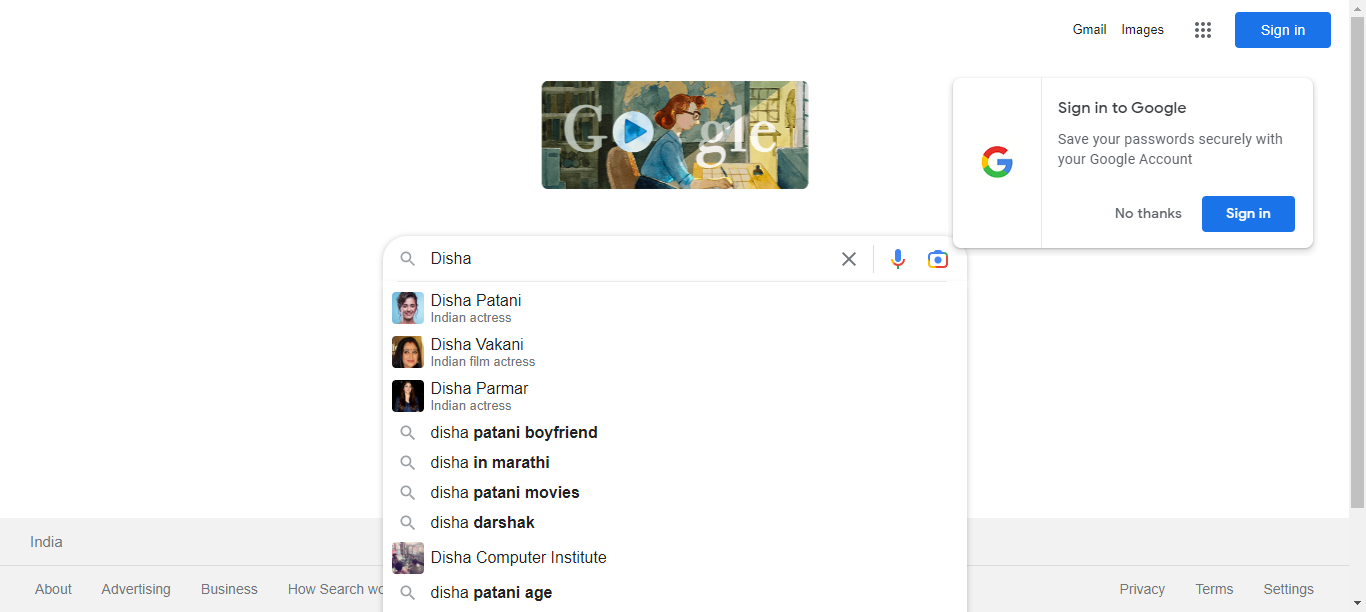
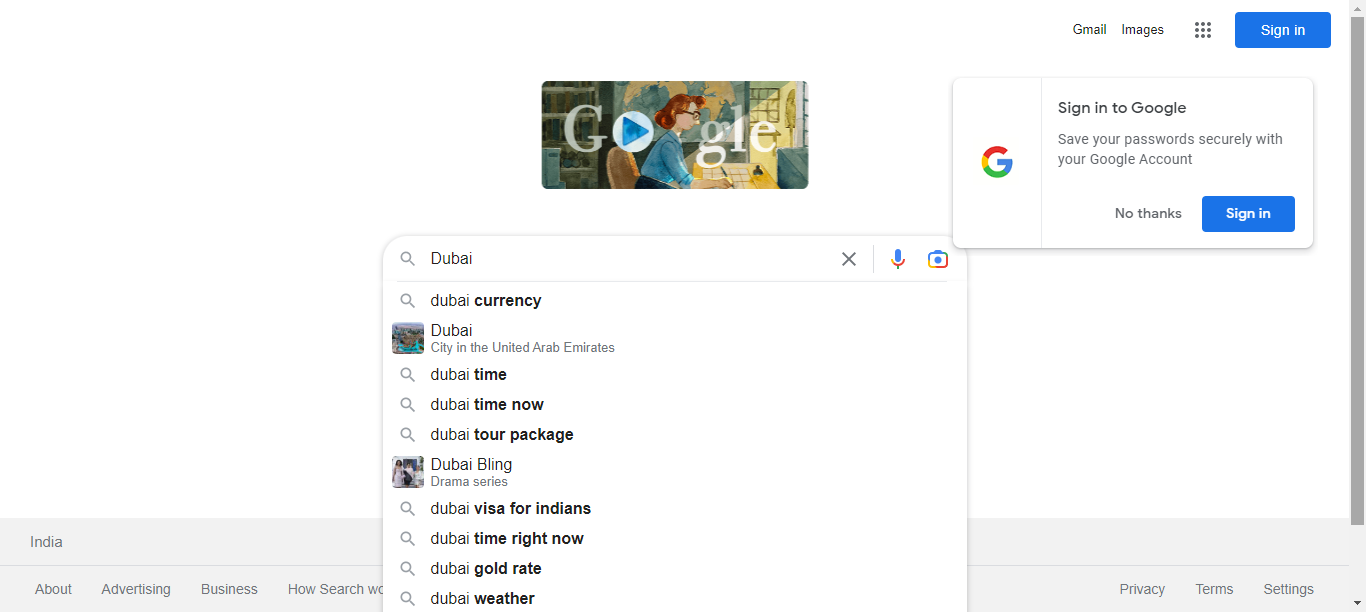
21-11 Third Commi

diff --git a/test-output/old/Default suite/methods.html b/test-output/old/Default suite/methods.html
@@ -1,10 +1,10 @@
 <h2>Methods run, sorted chronologically</h2><h3>&gt;&gt; means before, &lt;&lt; means after</h3><p/><br/><em>Default suite</em><p/><small><i>(Hover the method name to see the test class name)</i></small><p/>
 <table border="1">
 <tr><th>Time</th><th>Delta (ms)</th><th>Suite<br>configuration</th><th>Test<br>configuration</th><th>Class<br>configuration</th><th>Groups<br>configuration</th><th>Method<br>configuration</th><th>Test<br>method</th><th>Thread</th><th>Instances</th></tr>
-<tr bgcolor="b481b3">  <td>22/11/21 15:08:36</td>   <td>0</td> <td>&nbsp;</td><td>&nbsp;</td><td>&nbsp;</td><td>&nbsp;</td><td>&nbsp;</td><td title="AutoSuggestion.tc1()[pri:0, instance:Practice.AutoSuggestion@515aebb0]">tc1</td> 
-  <td>main@640070680</td>   <td></td> </tr>
-<tr bgcolor="b481b3">  <td>22/11/21 15:08:33</td>   <td>-3128</td> <td>&nbsp;</td><td>&nbsp;</td><td>&nbsp;</td><td>&nbsp;</td><td title="&gt;&gt;AutoSuggestion.setUp()[pri:0, instance:Practice.AutoSuggestion@515aebb0]">&gt;&gt;setUp</td> 
+<tr bgcolor="9d70bd">  <td>22/11/21 18:20:29</td>   <td>0</td> <td>&nbsp;</td><td>&nbsp;</td><td>&nbsp;</td><td>&nbsp;</td><td title="&gt;&gt;AutoSuggestion.setUp()[pri:0, instance:Practice.AutoSuggestion@37afeb11]">&gt;&gt;setUp</td> 
 <td>&nbsp;</td>  <td>main@640070680</td>   <td></td> </tr>
-<tr bgcolor="b481b3">  <td>22/11/21 15:08:45</td>   <td>8372</td> <td>&nbsp;</td><td>&nbsp;</td><td>&nbsp;</td><td>&nbsp;</td><td title="&lt;&lt;AutoSuggestion.tearDown()[pri:0, instance:Practice.AutoSuggestion@515aebb0]">&lt;&lt;tearDown</td> 
+<tr bgcolor="9d70bd">  <td>22/11/21 18:20:33</td>   <td>3283</td> <td>&nbsp;</td><td>&nbsp;</td><td>&nbsp;</td><td>&nbsp;</td><td>&nbsp;</td><td title="AutoSuggestion.tc1()[pri:0, instance:Practice.AutoSuggestion@37afeb11]">tc1</td> 
+  <td>main@640070680</td>   <td></td> </tr>
+<tr bgcolor="9d70bd">  <td>22/11/21 18:20:49</td>   <td>19331</td> <td>&nbsp;</td><td>&nbsp;</td><td>&nbsp;</td><td>&nbsp;</td><td title="&lt;&lt;AutoSuggestion.tearDown()[pri:0, instance:Practice.AutoSuggestion@37afeb11]">&lt;&lt;tearDown</td> 
 <td>&nbsp;</td>  <td>main@640070680</td>   <td></td> </tr>
 </table>

diff --git a/test-output/old/Default suite/methods-alphabetical.html b/test-output/old/Default suite/methods-alphabetical.html
@@ -1,10 +1,10 @@
 <h2>Methods run, sorted chronologically</h2><h3>&gt;&gt; means before, &lt;&lt; means after</h3><p/><br/><em>Default suite</em><p/><small><i>(Hover the method name to see the test class name)</i></small><p/>
 <table border="1">
 <tr><th>Time</th><th>Delta (ms)</th><th>Suite<br>configuration</th><th>Test<br>configuration</th><th>Class<br>configuration</th><th>Groups<br>configuration</th><th>Method<br>configuration</th><th>Test<br>method</th><th>Thread</th><th>Instances</th></tr>
-<tr bgcolor="b481b3">  <td>22/11/21 15:08:33</td>   <td>0</td> <td>&nbsp;</td><td>&nbsp;</td><td>&nbsp;</td><td>&nbsp;</td><td title="&gt;&gt;AutoSuggestion.setUp()[pri:0, instance:Practice.AutoSuggestion@515aebb0]">&gt;&gt;setUp</td> 
+<tr bgcolor="9d70bd">  <td>22/11/21 18:20:29</td>   <td>0</td> <td>&nbsp;</td><td>&nbsp;</td><td>&nbsp;</td><td>&nbsp;</td><td title="&gt;&gt;AutoSuggestion.setUp()[pri:0, instance:Practice.AutoSuggestion@37afeb11]">&gt;&gt;setUp</td> 
 <td>&nbsp;</td>  <td>main@640070680</td>   <td></td> </tr>
-<tr bgcolor="b481b3">  <td>22/11/21 15:08:36</td>   <td>3128</td> <td>&nbsp;</td><td>&nbsp;</td><td>&nbsp;</td><td>&nbsp;</td><td>&nbsp;</td><td title="AutoSuggestion.tc1()[pri:0, instance:Practice.AutoSuggestion@515aebb0]">tc1</td> 
+<tr bgcolor="9d70bd">  <td>22/11/21 18:20:33</td>   <td>3283</td> <td>&nbsp;</td><td>&nbsp;</td><td>&nbsp;</td><td>&nbsp;</td><td>&nbsp;</td><td title="AutoSuggestion.tc1()[pri:0, instance:Practice.AutoSuggestion@37afeb11]">tc1</td> 
   <td>main@640070680</td>   <td></td> </tr>
-<tr bgcolor="b481b3">  <td>22/11/21 15:08:45</td>   <td>11500</td> <td>&nbsp;</td><td>&nbsp;</td><td>&nbsp;</td><td>&nbsp;</td><td title="&lt;&lt;AutoSuggestion.tearDown()[pri:0, instance:Practice.AutoSuggestion@515aebb0]">&lt;&lt;tearDown</td> 
+<tr bgcolor="9d70bd">  <td>22/11/21 18:20:49</td>   <td>19331</td> <td>&nbsp;</td><td>&nbsp;</td><td>&nbsp;</td><td>&nbsp;</td><td title="&lt;&lt;AutoSuggestion.tearDown()[pri:0, instance:Practice.AutoSuggestion@37afeb11]">&lt;&lt;tearDown</td> 
 <td>&nbsp;</td>  <td>main@640070680</td>   <td></td> </tr>
 </table>

diff --git a/test-output/emailable-report.html b/test-output/emailable-report.html
@@ -9,9 +9,9 @@
 <table>
 <tr><th>Test</th><th># Passed</th><th># Skipped</th><th># Retried</th><th># Failed</th><th>Time (ms)</th><th>Included Groups</th><th>Excluded Groups</th></tr>
 <tr><th colspan="8">Default suite</th></tr>
-<tr><td><a href="#t0">Default test</a></td><td class="num">1</td><td class="num">0</td><td class="num">0</td><td class="num">0</td><td class="num">11,730</td><td></td><td></td></tr>
+<tr><td><a href="#t0">Default test</a></td><td class="num">1</td><td class="num">0</td><td class="num">0</td><td class="num">0</td><td class="num">19,544</td><td></td><td></td></tr>
 </table>
-<table id='summary'><thead><tr><th>Class</th><th>Method</th><th>Start</th><th>Time (ms)</th></tr></thead><tbody><tr><th colspan="4">Default suite</th></tr></tbody><tbody id="t0"><tr><th colspan="4">Default test &#8212; passed</th></tr><tr class="passedeven"><td rowspan="1">Practice.AutoSuggestion</td><td><a href="#m0">tc1</a></td><td rowspan="1">1669023516867</td><td rowspan="1">8370</td></tr></tbody>
+<table id='summary'><thead><tr><th>Class</th><th>Method</th><th>Start</th><th>Time (ms)</th></tr></thead><tbody><tr><th colspan="4">Default suite</th></tr></tbody><tbody id="t0"><tr><th colspan="4">Default test &#8212; passed</th></tr><tr class="passedeven"><td rowspan="1">Practice.AutoSuggestion</td><td><a href="#m0">tc1</a></td><td rowspan="1">1669035033225</td><td rowspan="1">16045</td></tr></tbody>
 </table>
 <h2>Default test</h2><h3 id="m0">Practice.AutoSuggestion#tc1</h3><table class="result"><tr><th class="invisible"/></tr></table><p class="totop"><a href="#summary">back to summary</a></p>
 </body>

diff --git a/test-output/Default suite/Default test.html b/test-output/Default suite/Default test.html
@@ -57,9 +57,9 @@ function toggleAllBoxes() {
 <tr>
 <td>Tests passed/Failed/Skipped:</td><td>1/0/0</td>
 </tr><tr>
-<td>Started on:</td><td>Mon Nov 21 15:08:33 IST 2022</td>
+<td>Started on:</td><td>Mon Nov 21 18:20:29 IST 2022</td>
 </tr>
-<tr><td>Total time:</td><td>11 seconds (11730 ms)</td>
+<tr><td>Total time:</td><td>19 seconds (19544 ms)</td>
 </tr><tr>
 <td>Included groups:</td><td></td>
 </tr><tr>
@@ -78,8 +78,8 @@ function toggleAllBoxes() {
 <tr>
 <td title='Practice.AutoSuggestion.tc1()'><b>tc1</b><br>Test class: Practice.AutoSuggestion</td>
 <td></td>
-<td>8</td>
-<td>Practice.AutoSuggestion@515aebb0</td></tr>
+<td>16</td>
+<td>Practice.AutoSuggestion@37afeb11</td></tr>
 </table><p>
 </body>
 </html>

diff --git a/src/test/java/Practice/AutoSuggestion.java b/src/test/java/Practice/AutoSuggestion.java
@@ -2,12 +2,14 @@ package Practice;
 
 import java.io.File;
 import java.io.IOException;
+import java.util.List;
 
 import org.apache.commons.io.FileUtils;
 import org.openqa.selenium.By;
 import org.openqa.selenium.OutputType;
 import org.openqa.selenium.TakesScreenshot;
 import org.openqa.selenium.WebDriver;
+import org.openqa.selenium.WebElement;
 import org.openqa.selenium.chrome.ChromeDriver;
 import org.openqa.selenium.chrome.ChromeOptions;
 import org.testng.annotations.AfterMethod;
@@ -35,6 +37,7 @@ public class AutoSuggestion {
 		rm=new ChromeDriver(co);
 		
 		rm.get("https://www.google.com/");
+	
 				
 	}
 	
@@ -47,21 +50,50 @@ public class AutoSuggestion {
 		
 		System.out.println(rm.getTitle());
 		
-		rm.findElement(By.xpath("//*[contains(@class,'gLFyf')]")).sendKeys("Disha");
+		rm.findElement(By.xpath("//*[contains(@class,'gLFyf')]")).sendKeys("Dubai");
 		
 		Thread.sleep(4000);
 		
-		TakesScreenshot tk=(TakesScreenshot)rm;
+		List<WebElement> le= rm.findElements(By.xpath("//*[contains(@class,'sbct')]"));
 		
-		File src=tk.getScreenshotAs(OutputType.FILE);
 	
-		try {
-			FileUtils.copyFile(src, new File("C://Users//Admin//eclipse-workspace//NewPractice//Screenshot//GoogleAutosuggestionList.png"));
-		} catch (IOException e) {
-			// TODO Auto-generated catch block
-			e.printStackTrace();
+		int TotalNumber=le.size();
+		
+		System.out.println("Total number of Autosuggestions are :" +TotalNumber);
+
+		Thread.sleep(3000);
+		
+		for(WebElement ele:le)
+		{
+			
+			String Text= ele.getText();
+			
+			System.out.println(Text);
+			
+			if(Text.equalsIgnoreCase("dubai time right now"))
+			{
+				Thread.sleep(3000);
+				
+				TakesScreenshot tk=(TakesScreenshot)rm;
+				
+				File src=tk.getScreenshotAs(OutputType.FILE);
+			
+				try {
+					FileUtils.copyFile(src, new File("C://Users//Admin//eclipse-workspace//NewPractice//Screenshot//GoogleAutosuggestionList.png"));
+				} catch (IOException e) {
+					// TODO Auto-generated catch block
+					e.printStackTrace();
+				}
+			
+				
+				ele.click();
+				
+				break;
+			}
+			
 		}
-	}
+		
+		}
 	
 	
 	@AfterMethod
